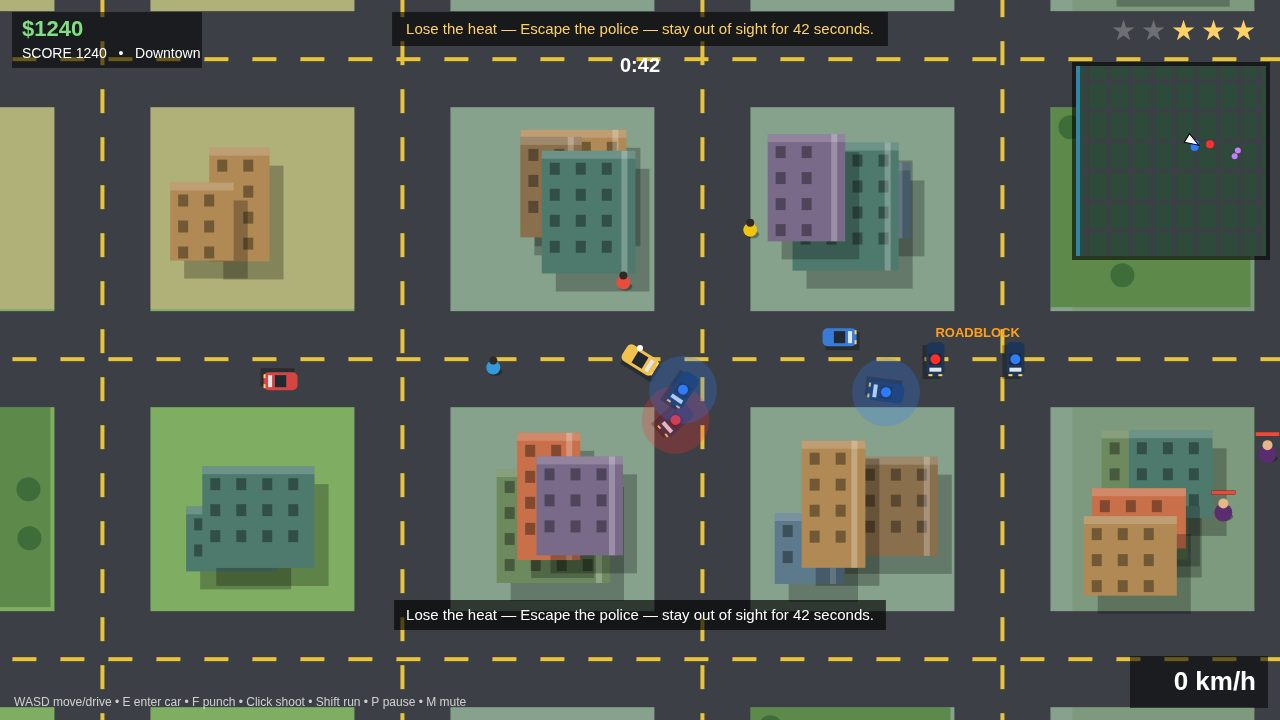
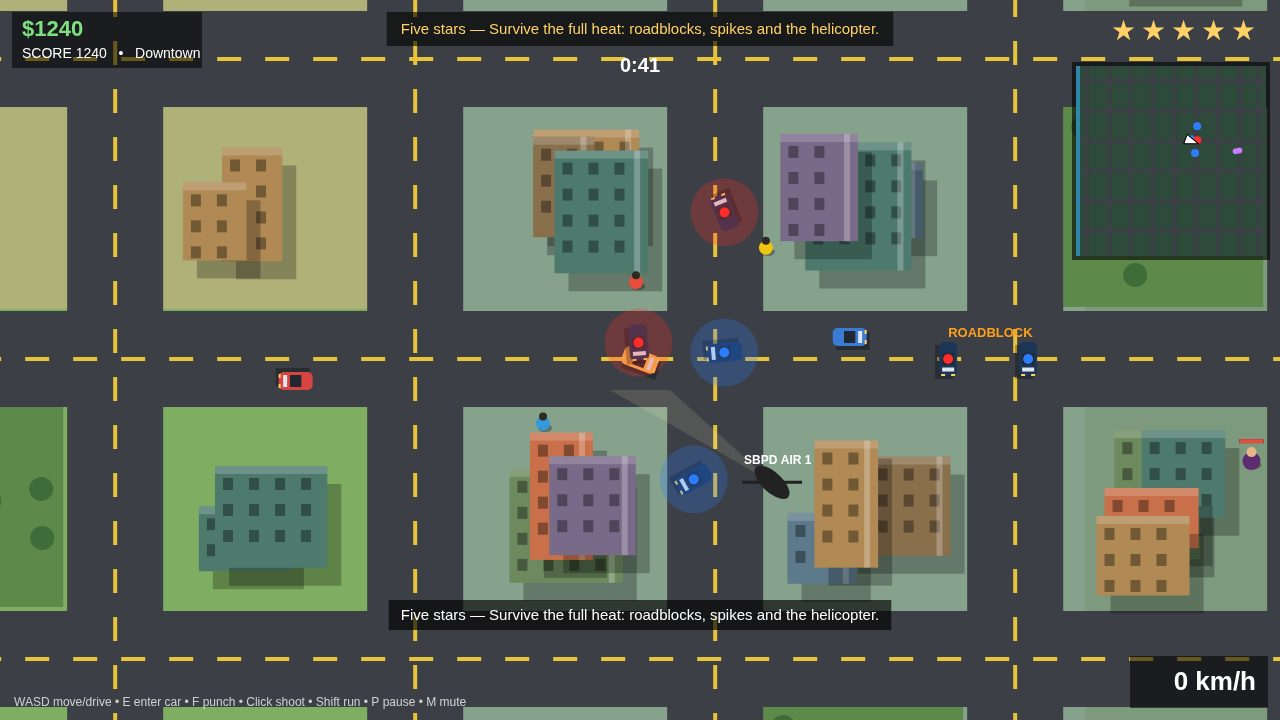
V3 police-heat: default variant heat — wanted 1-5 escalation, roadblocks, helicopter, 5-star cover

diff --git a/game/src/config.js b/game/src/config.js
@@ -6,9 +6,10 @@ export const WORLD_H = 1900;
 export const ROAD = 96; // road width in world pixels
 export const BLOCK = 300; // city block pitch
 
-// Variant is chosen by ?variant=chase|story|heat|golden|sandbox (default chase).
+// Variant is chosen by ?variant=chase|story|heat|golden|sandbox (default heat:
+// V3 is the police-heat cut — wanted 1–5 escalation, roadblocks, helicopter).
 export function variantFromUrl() {
-  const v = new URLSearchParams(location.search).get('variant') || 'chase';
+  const v = new URLSearchParams(location.search).get('variant') || 'heat';
   return ['chase', 'story', 'heat', 'golden', 'sandbox'].includes(v) ? v : 'chase';
 }
 
